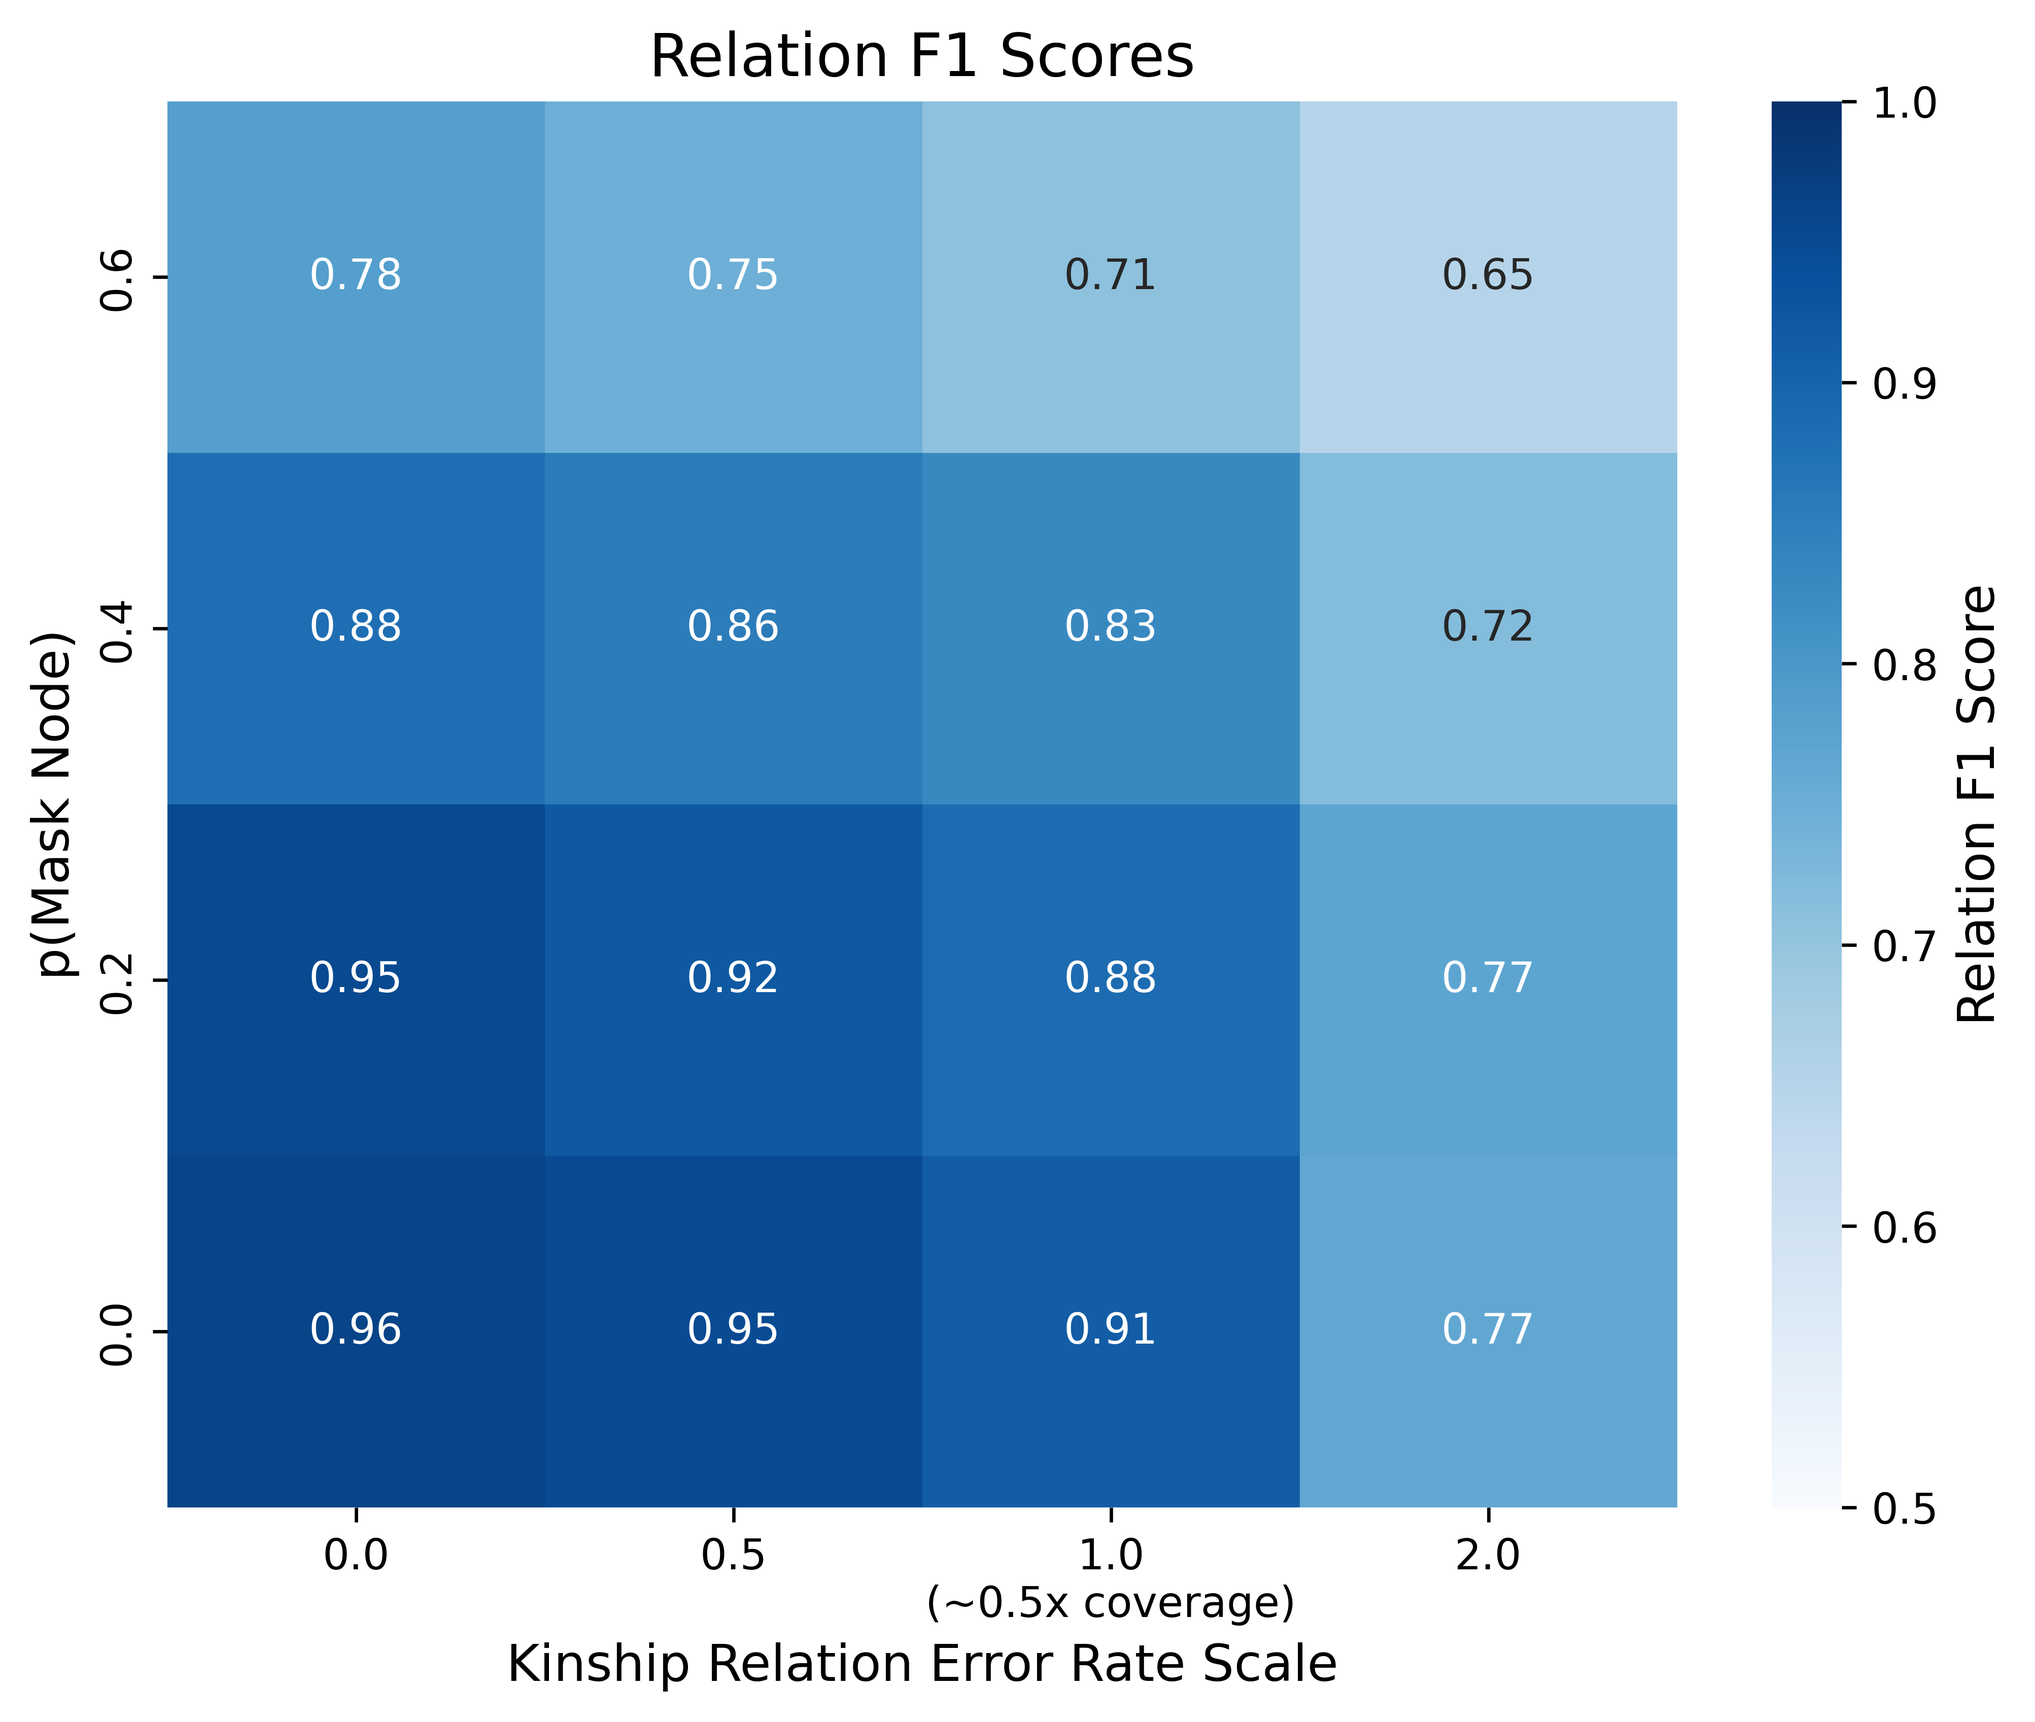
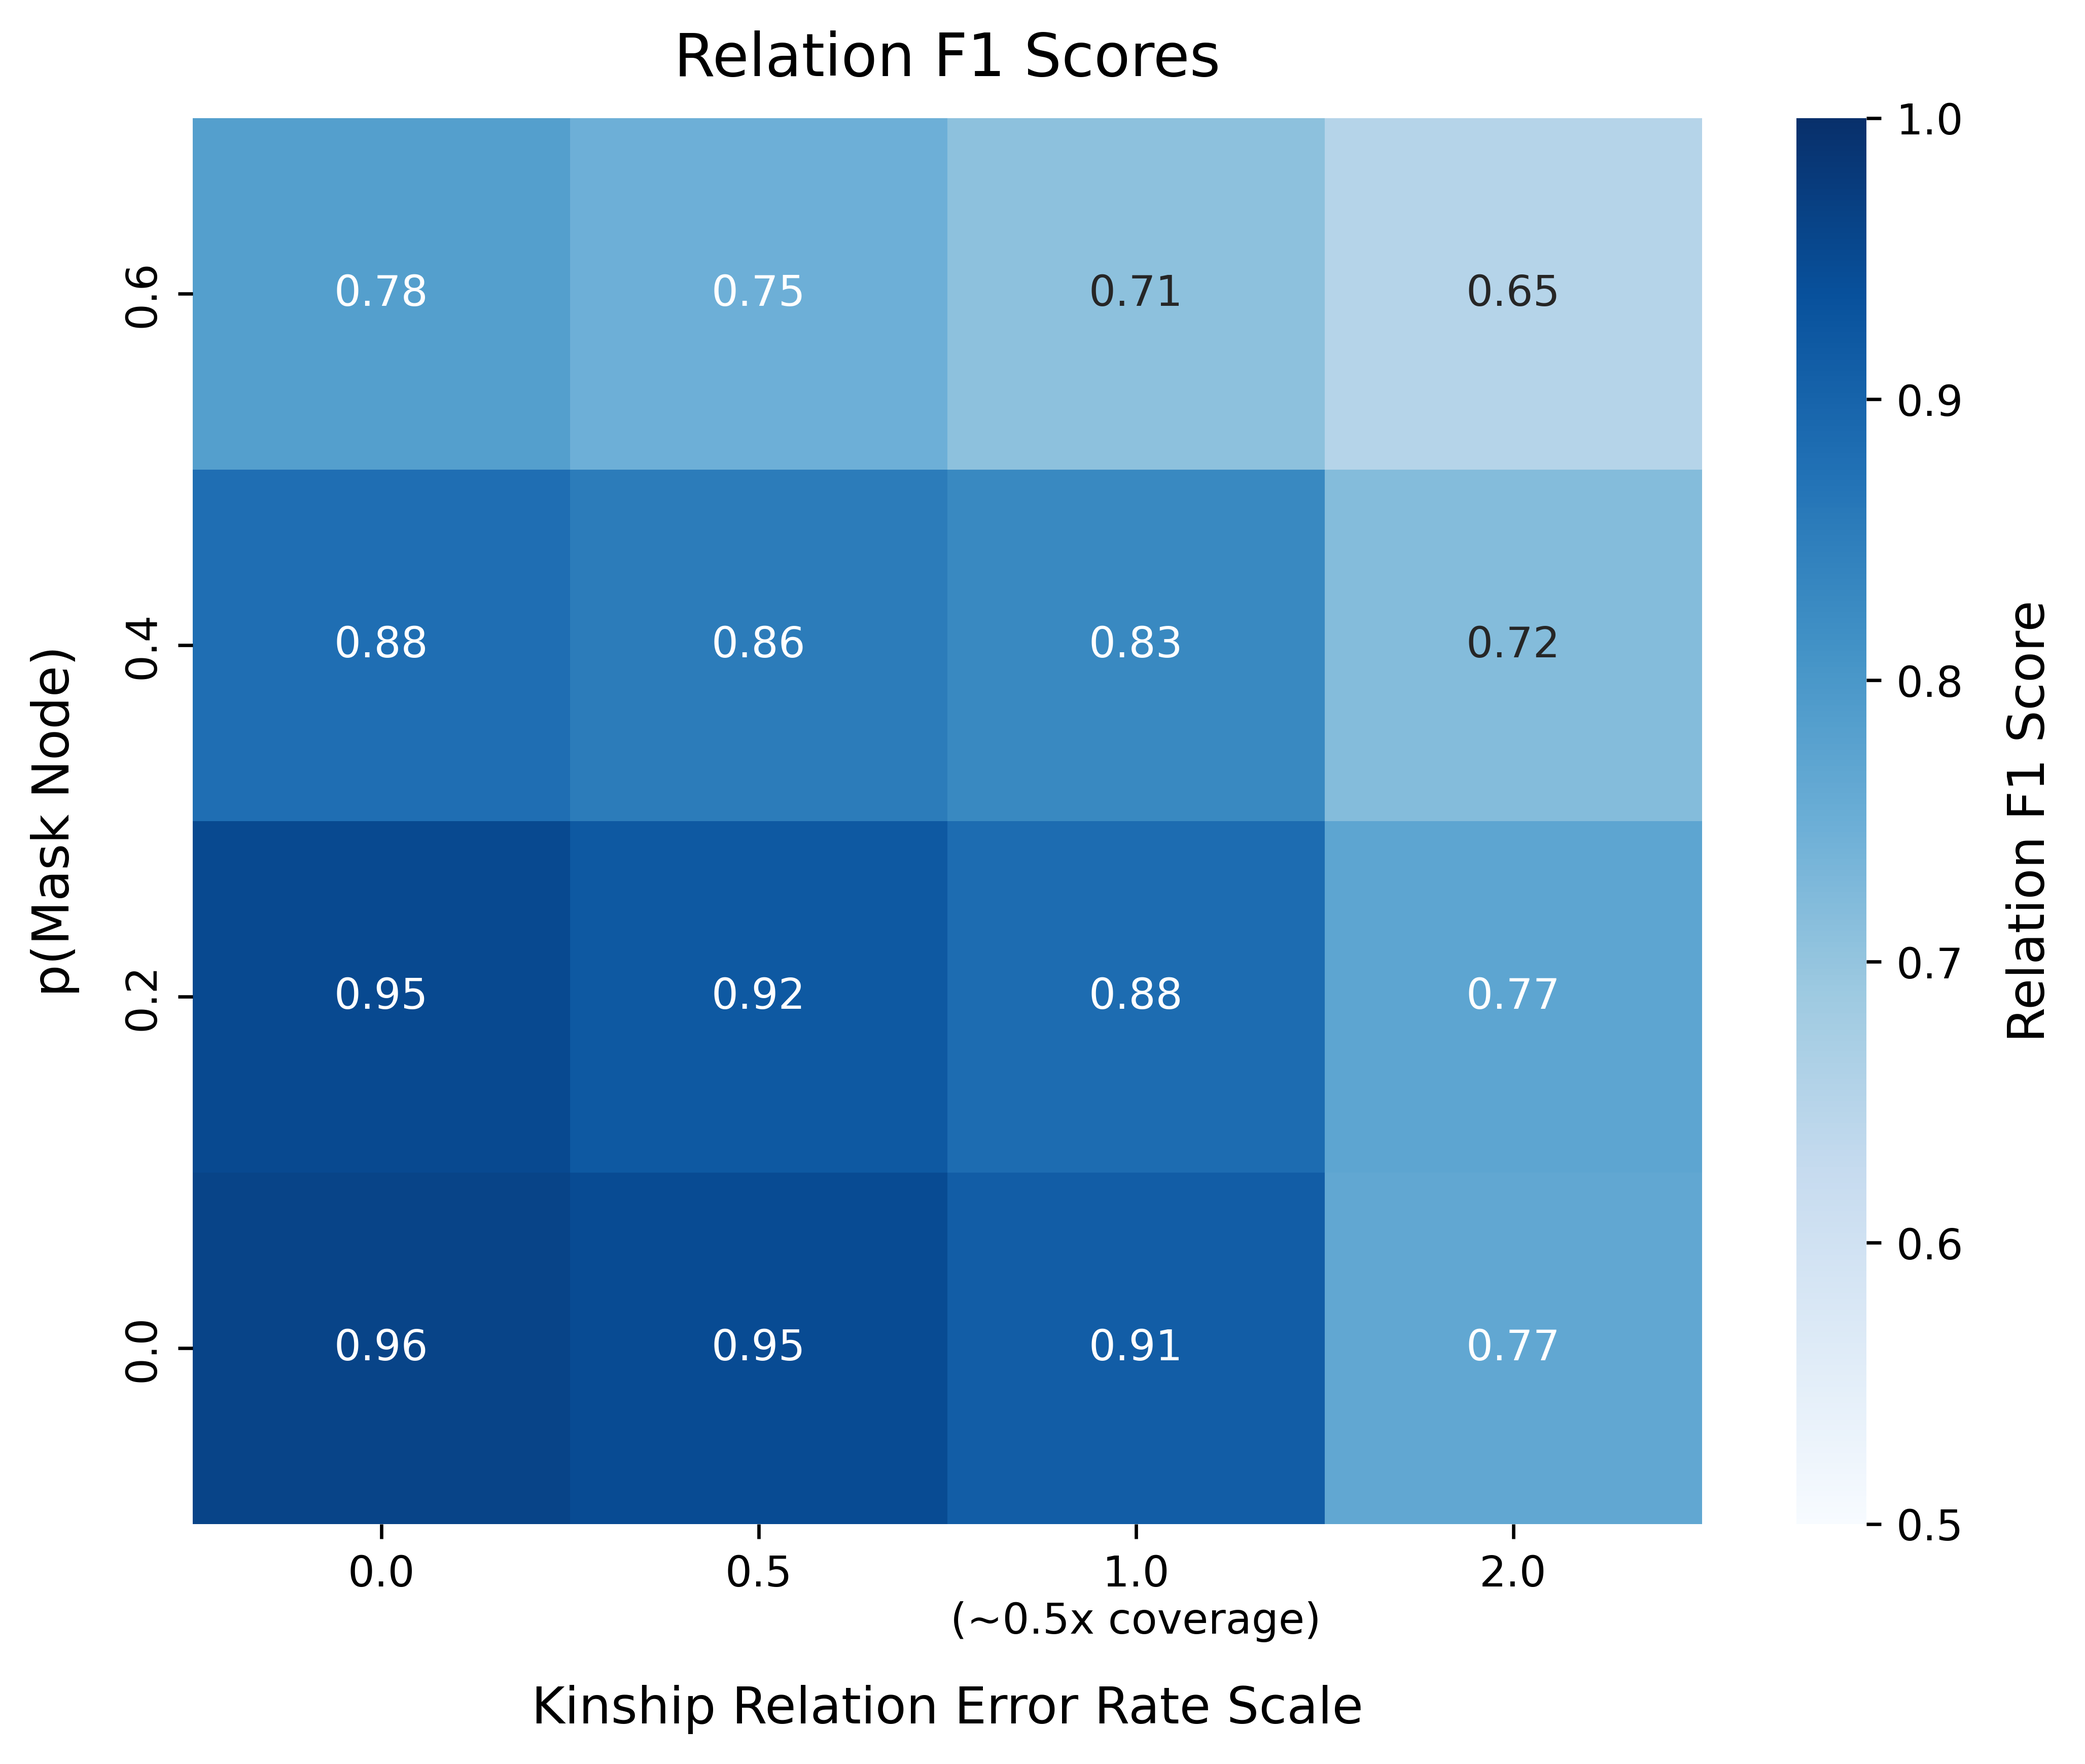
Increase label padding in parameter experiment heatmaps

diff --git a/benchmarks/simulations/plot_parameter_data.py b/benchmarks/simulations/plot_parameter_data.py
@@ -86,10 +86,11 @@ def plot_results(results_dir: str) -> None:
         ax = sns.heatmap(
             heatmap_data, annot=True, fmt=".2f", cmap="Blues", cbar_kws={"label": f"{metric} Score"}, vmin=0.5, vmax=1.0
         )
+        ax.figure.axes[-1].yaxis.labelpad = 10  # Set colorbar label padding
         ax.figure.axes[-1].yaxis.label.set_size(12)  # Set colorbar label size
-        plt.title(f"{metric} Scores", fontsize=14)
-        plt.xlabel("Kinship Relation Error Rate Scale", fontsize=12)
-        plt.ylabel("p(Mask Node)", fontsize=12)
+        plt.title(f"{metric} Scores", fontsize=14, pad=10)
+        plt.xlabel("Kinship Relation Error Rate Scale", fontsize=12, labelpad=10)
+        plt.ylabel("p(Mask Node)", fontsize=12, labelpad=10)
         plt.savefig(
             f"results/parameter_experiment/plots/{metric.lower().replace(' ', '_')}_heatmap.png",
             bbox_inches="tight",
